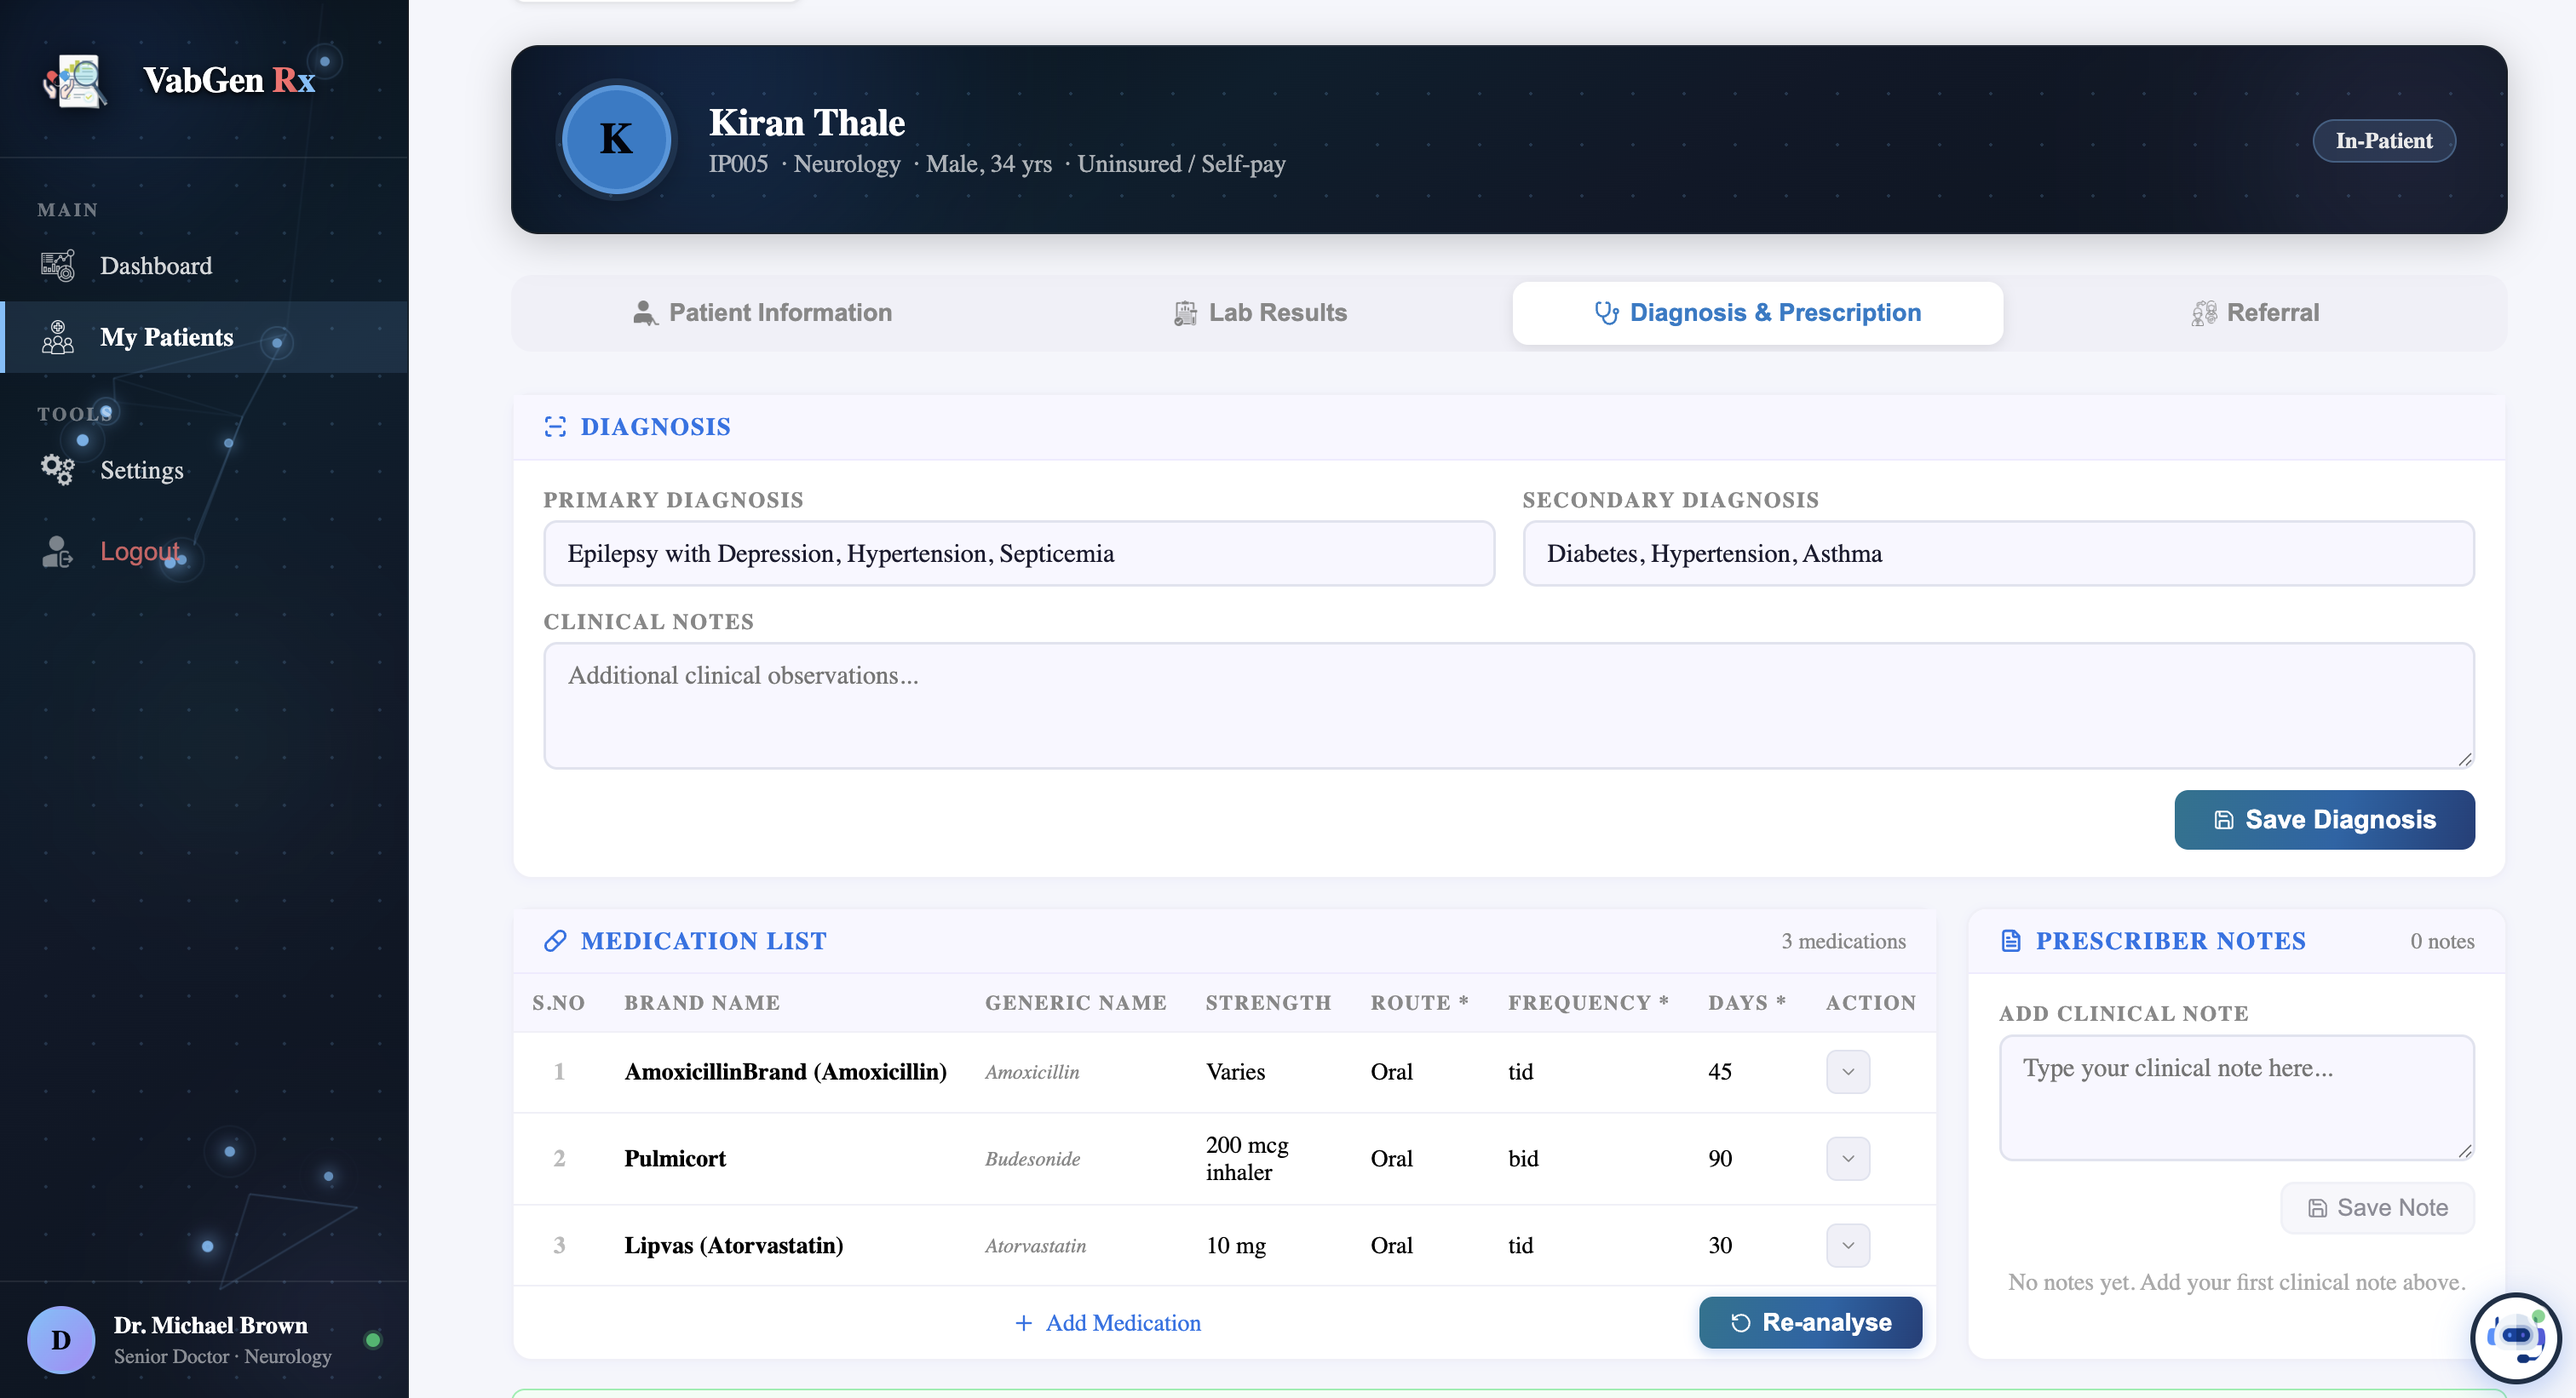
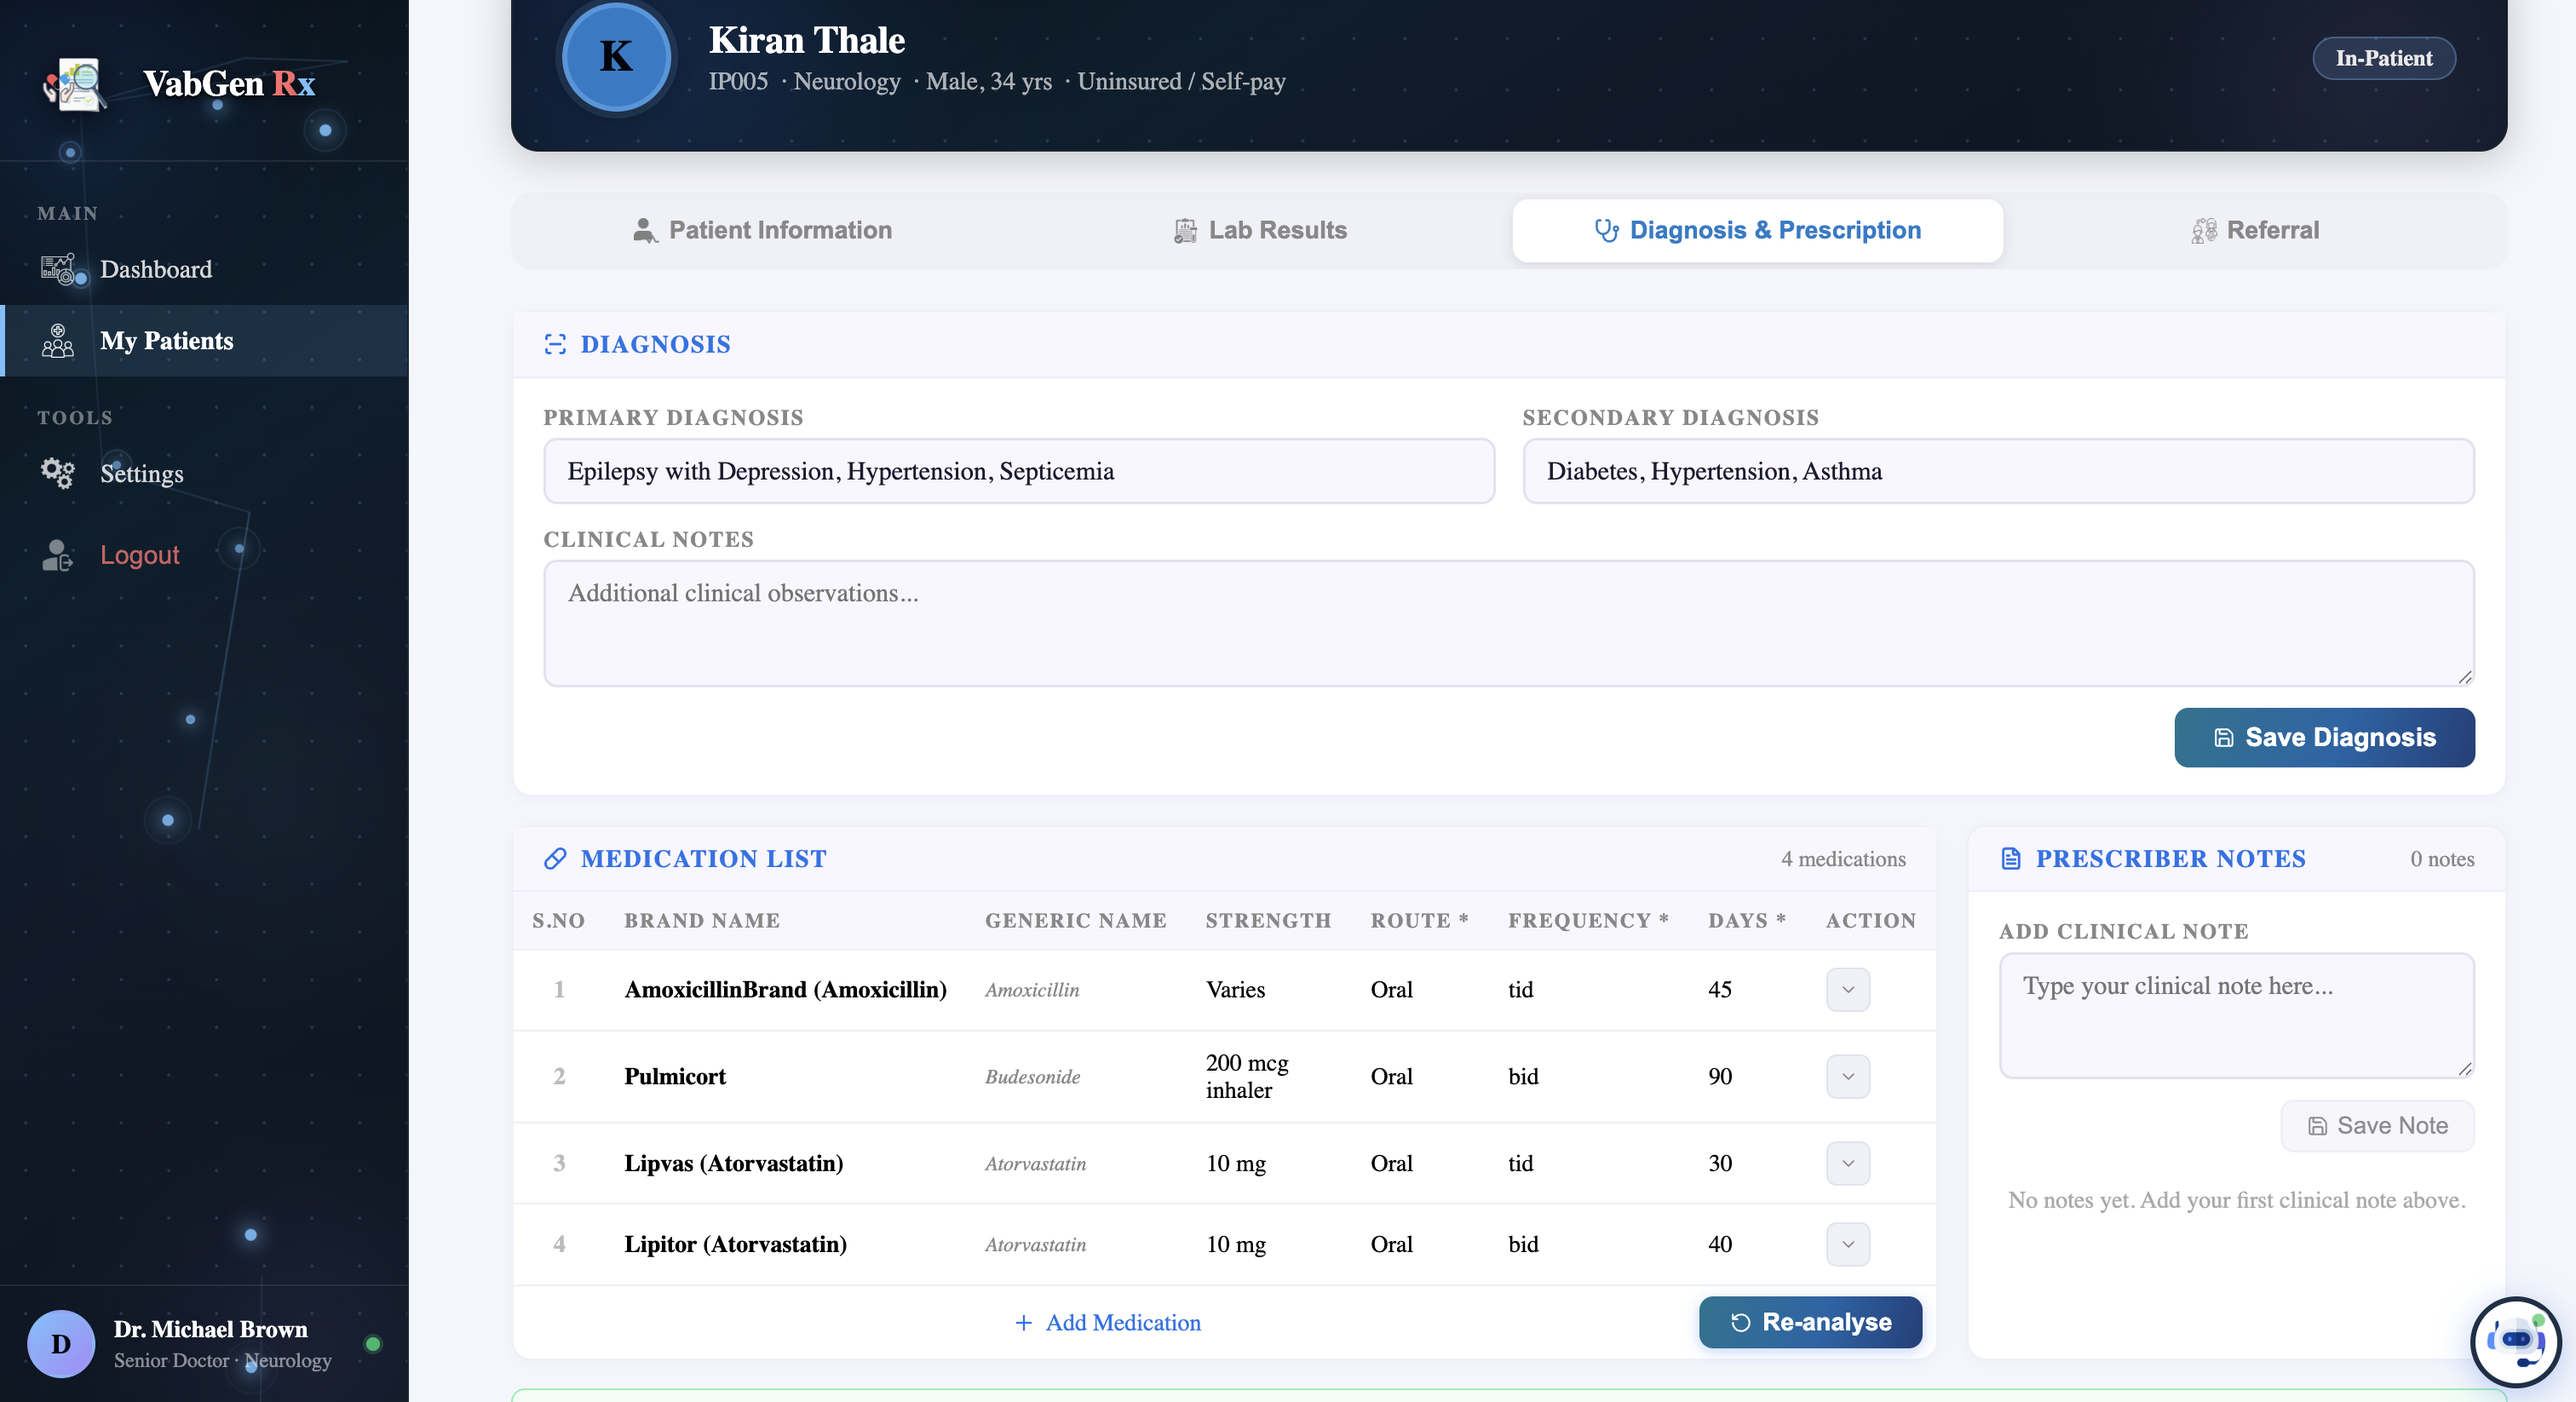
Out of stock finder image

diff --git a/README.md b/README.md
@@ -5,8 +5,6 @@
 # VabGenRx
 ## AI-Powered Clinical Drug Safety & Decision Support
 
-> **AI Dev Days Hackathon 2025** · Microsoft Foundry · Microsoft Agent Framework · Azure MCP · GitHub Copilot
-
 [![Live Demo](https://img.shields.io/badge/Live%20Demo-Azure-0078D4?logo=microsoftazure)](https://yellow-sea-05177870f.2.azurestaticapps.net/login)
 [![License: MIT](https://img.shields.io/badge/License-MIT-yellow.svg)](LICENSE)
 
@@ -26,7 +24,7 @@ VabGenRx was built for that moment.
 
 It is a production-ready, evidence-based, AI-powered clinical medication safety platform that works in the background of a clinician's workflow doing in seconds what would otherwise take hours of cross-referencing across databases, literature, lab reports and pharmacy systems. When a prescription is written, VabGenRx gets to work immediately.
 
-It checks for drug interactions, food conflicts, disease contraindications and dosing risks based on the patient's actual lab values. It verifies real-time pharmacy stock. It generates patient counselling in the patient's own language. And it does all of this through a six-phase multi-agent AI pipeline built on Microsoft Agent Framework, hosted on Microsoft Foundry returning a complete, evidence-grounded clinical safety report.
+It checks for drug interactions, food conflicts, disease contraindications and dosing risks based on the patient's actual lab values. It verifies real-time pharmacy stock. It generates patient counselling in the patient's own language. And it does all of this through a **six-phase multi-agent AI pipeline** built on Microsoft Agent Framework, hosted on Microsoft Foundry returning a complete, evidence-grounded clinical safety report in under 90 seconds.
 
 Not a list of warnings. A clinical narrative that tells the prescriber exactly what the risks are, how serious they are and what to do next grounded strictly in PubMed literature and FDA databases. Never in guesswork.
 
@@ -36,9 +34,9 @@ Not a list of warnings. A clinical narrative that tells the prescriber exactly w
 
 **VabGenRx** is a production-ready, multi-agent clinical pharmacology platform that solves one of healthcare's most dangerous and overlooked problems: the impossibility of safely managing polypharmacy at the point of care.
 
-**Who is it for?** Built for prescribers, clinical pharmacists and hospital pharmacy teams who need real-time, evidence-grounded medication safety intelligence at the moment a prescribing decision is made.
+**Who is it for?** Built for prescribers, clinical pharmacists, and hospital pharmacy teams who need real-time, evidence-grounded medication safety intelligence at the moment a prescribing decision is made.
 
-**What does it do?** It runs a complete six-phase AI pipeline — evidence gathering from PubMed and FDA, drug-drug interaction analysis, drug-disease contraindication checking, precision dosing based on patient labs, patient counselling in 100+ languages and a final cross-domain orchestration layer that detects compounding risks no single check would catch. All grounded strictly in published evidence. Never in hallucination.
+**What does it do?** It runs a complete six-phase AI pipeline — evidence gathering from PubMed and FDA, drug-drug interaction analysis, drug-disease contraindication checking, precision dosing based on patient labs, patient counselling in 100+ languages, and a final cross-domain orchestration layer that detects compounding risks no single check would catch. All grounded strictly in published evidence. Never in hallucination.
 
 **How is it built?** Five specialist Azure AI Agents (Safety, Disease, Dosing, Counselling, Orchestrator) run on Microsoft Foundry using Microsoft Agent Framework. Evidence is sourced live from PubMed NCBI and FDA OpenFDA APIs. Results are cached in Azure SQL. All prescriber-facing output is scanned through Azure AI Content Safety. The platform is deployed on Azure App Service and Azure Static Web Apps, with HIPAA-compliant audit logging and 9 Application Insights monitoring alerts. The A2A protocol endpoint at `/.well-known/agent.json` allows external agents to discover and invoke VabGenRx skills programmatically via Azure MCP.
 
@@ -70,25 +68,25 @@ Here is a real clinical scenario VabGenRx was designed for: a patient whose eGFR
 
 ### Four Capabilities, One Clinical Workflow
 
-**💊 Drug, Disease & Food Interaction Checker**
+**Drug, Disease & Food Interaction Checker**
 
 Modern prescribing does not happen in isolation. A drug interacts not just with other drugs, but with the patient's diagnosed conditions, their diet and their entire clinical history. VabGenRx checks every prescription in real time across all three dimensions simultaneously flagging interactions before the prescription is even written.
 
 Every interaction is classified by clinical severity Major, Moderate or Minor so clinicians know instantly which findings demand immediate action and which simply need monitoring. All data is pulled directly from the National Library of Medicine and the FDA via live API calls. This is real-world, live clinical evidence the same gold standard sources that clinical pharmacologists use, delivered in real time at the point of care.
 
-**🧬 Precision Dosing — Tailored to the Individual Patient**
+**Precision Dosing — Tailored to the Individual Patient**
 
 The textbook dose is written for an average patient. Your patient is never average.
 
 VabGenRx calculates the right dose for the specific individual factoring in their renal function, liver impairment, lab values, age, weight and intersubject variability drawn from live FDA label data. A patient with stage 3 chronic kidney disease does not need the same dose of metformin as a healthy 35-year-old. VabGenRx knows the difference, calculates accordingly and presents the clinician with a dose that is right for this patient, right now.
 
-**📦 Out-of-Stock Checker — Connected to Live Hospital Inventory**
+**Out-of-Stock Checker — Connected to Live Hospital Inventory**
 
 Writing the right prescription only matters if the medication is actually available. Before a prescription is printed, VabGenRx queries the hospital's live pharmacy inventory database directly. If a medication is unavailable, it instantly surfaces formulary compliant alternatives with real-time pricing so the clinician can make an informed switch in one click, before the patient leaves the room.
 
 U.S. hospitals spent 20 million hours and nearly $900 million in labour costs managing drug shortages in 2023 alone. And 88% of physicians only found out a drug was unavailable after the patient had already left through a call from the pharmacist or the patient themselves returning empty-handed. VabGenRx closes that loop before it opens.
 
-**🌍 Patient Counselling — Translated into Any Language**
+**Patient Counselling — Translated into Any Language**
 
 A prescription without understanding is an incomplete prescription. Inadequate counselling accounts for 55% of medication non-adherence and when a patient cannot understand their discharge instructions because they are in a language they do not speak, the clinical encounter has already begun to fail.
 
@@ -213,7 +211,10 @@ flowchart TD
 ### Diagnosis & Prescription
 ![Diagnosis and Prescription](./screenshots/diagnosis-prescription.png)
 
-### Drug Interaction Warning — Drug-Drug
+### Out-of-Stock Medication Finder
+![Out of Stock Finder](./screenshots/out-of-stock.png)
+
+### Drug Interaction Warning — Drug-Drug & Dosing Recommendations
 ![Drug-Drug Interactions](./screenshots/drug-drug.png)
 
 ### Drug Interaction Warning — Drug-Disease
@@ -221,6 +222,9 @@ flowchart TD
 
 ### Drug Interaction Warning — Drug-Food
 ![Drug-Food Interactions](./screenshots/drug-food.png)
+
+### E-Prescription
+![E-Prescription](./screenshots/e-prescription.png)
 
 ### Patient Education — Drug Counselling
 ![Drug Counselling](./screenshots/drug-counselling.png)
@@ -234,38 +238,35 @@ flowchart TD
 ### Patient Counselling PDF Export
 ![PDF Export](./screenshots/pdf-export.png)
 
-### E-Prescription
-![E-Prescription](./screenshots/e-prescription.png)
-
 ---
 
 ## Frontend Features
 
-- 🔐 **Secure Authentication (JWT)**
+-  **Secure Authentication (JWT)**
   Role-based login using JSON Web Tokens. Tokens are attached to all secure API requests, enabling stateless, secure communication between client and server.
 
-- 🔒 **Password Security (bcrypt)**
+-  **Password Security (bcrypt)**
   All passwords are hashed with bcrypt before storage. Passwords are never stored in plain text even a database breach cannot expose credentials directly.
 
-- 📅 **90-Day Password Expiration**
+-  **90-Day Password Expiration**
   Doctors are required to update their password every 90 days, reducing long-term credential exposure risks.
 
-- ⏱ **15-Minute Session Timeout**
+-  **15-Minute Session Timeout**
   Inactive sessions automatically expire after 15 minutes to prevent unauthorized access on unattended devices.
 
-- 👤 **Role-Based Access Control (RBAC)**
+-  **Role-Based Access Control (RBAC)**
   Doctors are categorized by specialty (Cardiology, Neurology, Oncology, Pediatrics, etc.) and can only access patients assigned to their role ensuring data separation and patient privacy.
 
-- 📧 **Account Recovery & Change Notifications**
+-  **Account Recovery & Change Notifications**
   Secure email-based password recovery. After any password change, an automated notification email is sent as an additional security safeguard.
 
-- 🤖 **Integrated Chatbot Assistant**
+-  **Integrated Chatbot Assistant**
   An in-platform chatbot helps doctors navigate clinical workflows more efficiently.
 
-- 🌗 **Dark Mode / Light Mode**
+-  **Dark Mode / Light Mode**
   Full theme support for reduced eye strain and customizable readability.
 
-- 🗃 **Redux State Management**
+-  **Redux State Management**
   Centralized, predictable application state with secure handling of sensitive user data in the client environment.
 
 ---
@@ -282,11 +283,11 @@ flowchart TD
 ### Phase 2 — Round 1 Specialist Synthesis (Parallel)
 Three Azure AI Agents run simultaneously on Microsoft Foundry:
 
-- 🛡 **VabGenRxSafetyAgent** — Synthesizes drug-drug interactions in batches of ≤5 pairs
+-  **VabGenRxSafetyAgent** — Synthesizes drug-drug interactions in batches of ≤5 pairs
   - 3-layer resilience: cache bypass, retry on truncation, fill-from-cache/placeholder
-- 🧬 **VabGenRxDiseaseAgent** — Synthesizes drug-disease contraindications in batches of ≤8
+-  **VabGenRxDiseaseAgent** — Synthesizes drug-disease contraindications in batches of ≤8
   - Injects full core FDA sections (up to 600 chars each) directly into agent prompts
-- 💊 **VabGenRxDosingAgent** — Evaluates patient labs (eGFR, potassium, TSH, bilirubin) against FDA thresholds
+-  **VabGenRxDosingAgent** — Evaluates patient labs (eGFR, potassium, TSH, bilirubin) against FDA thresholds
   - Runs via `DosingService` directly in parallel with no Azure Agent overhead
 
 > After synthesis, evidence patch methods (`patch_drug_drug_evidence`, `patch_drug_disease_evidence`) stamp correct evidence counts from raw evidence, bypassing any agent misreporting.
